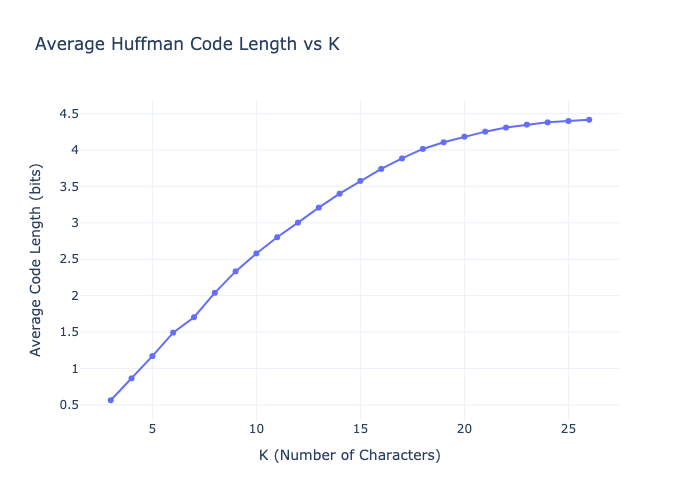
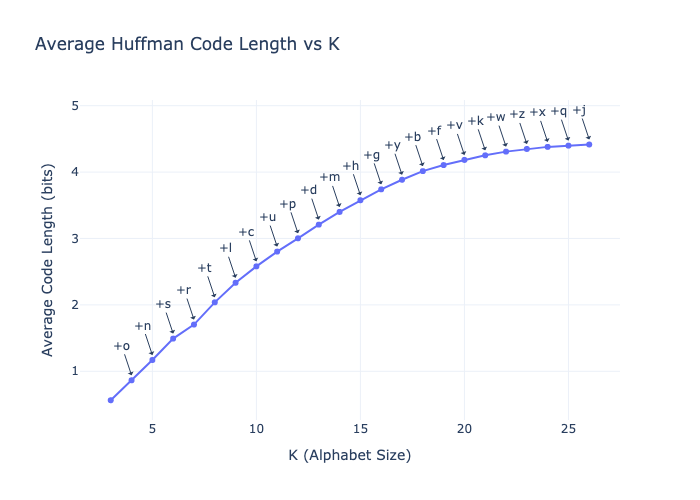
more

diff --git a/keyboard/huffman.py b/keyboard/huffman.py
@@ -2,7 +2,7 @@ from collections import Counter
 from dataclasses import dataclass
 from typing import Optional, Dict, List
 from queue import PriorityQueue
-from tqdm import tqdm
+from tqdm import tqdm, trange
 from pathlib import Path
 from collections import deque
 import json
@@ -129,18 +129,20 @@ def restrict_dictionary(words: List[str], top_chars: List[tuple[str, int]]):
     )
 
 
-def analyze_k_values(words: List[str], k_range: range = range(3, 27)):
+def analyze_k_values(words: List[str], k_range=trange(3, 27)):
     """Find change in average prefix length E(l) as function of k, number of codewords.
-    Save Plotly line plot
+    Annotates plot with new characters added at each K.
     """
     char_freq = analyze_frequencies(words)
     avg_lengths = []
+    alphabet_sets = []  # Cache alphabet sets for each k
 
-    for k in tqdm(k_range, desc="Analyzing K values"):
+    for k in k_range:
         # Build tree and get codes for this K
-        huffman_root, _ = build_huffman_tree(char_freq, top_k=k)
-        json_output = build_prefix_code(huffman_root, char_freq)
+        root, top_chars = build_huffman_tree(char_freq, top_k=k)
+        json_output = build_prefix_code(root, char_freq)
         codes = json_output["codes"]
+        alphabet_sets.append(set(codes.keys()))
 
         # Calculate weighted average prefix length
         total_freq = sum(char_freq.values())
@@ -151,7 +153,7 @@ def analyze_k_values(words: List[str], k_range: range = range(3, 27)):
         )
         avg_lengths.append(avg_length)
 
-    # Create plotly figure
+    # Create plotly figure with annotations
     fig = go.Figure()
     fig.add_trace(
         go.Scatter(
@@ -162,9 +164,22 @@ def analyze_k_values(words: List[str], k_range: range = range(3, 27)):
         )
     )
 
+    # Add annotations for new characters at each k
+    for i in range(len(alphabet_sets) - 1, 0, -1):
+        new_chars = alphabet_sets[i] - alphabet_sets[i - 1]
+        if new_chars:
+            fig.add_annotation(
+                x=list(k_range)[i],
+                y=avg_lengths[i],
+                text=f"+{','.join(sorted(list(new_chars)))}",
+                showarrow=True,
+                arrowhead=1,
+                yshift=5,
+            )
+
     fig.update_layout(
         title="Average Huffman Code Length vs K",
-        xaxis_title="K (Number of Characters)",
+        xaxis_title="K (Alphabet Size)",
         yaxis_title="Average Code Length (bits)",
         template="plotly_white",
     )

diff --git a/keyboard/textual_toy.py b/keyboard/textual_toy.py
@@ -26,16 +26,7 @@ class WordValidator(Validator):
 
 
 class WordValidatorApp(App):
-    """Live word validation TUI app."""
-
-    BINDINGS = [("ctrl+c", "quit")]  # Add keyboard bindings
-
-    def action_quit(self) -> None:
-        """Quit the application."""
-        self.exit()
-
     def compose(self):
-        """Create app layout."""
         yield Container(
             Input(
                 placeholder="Type a word...",
